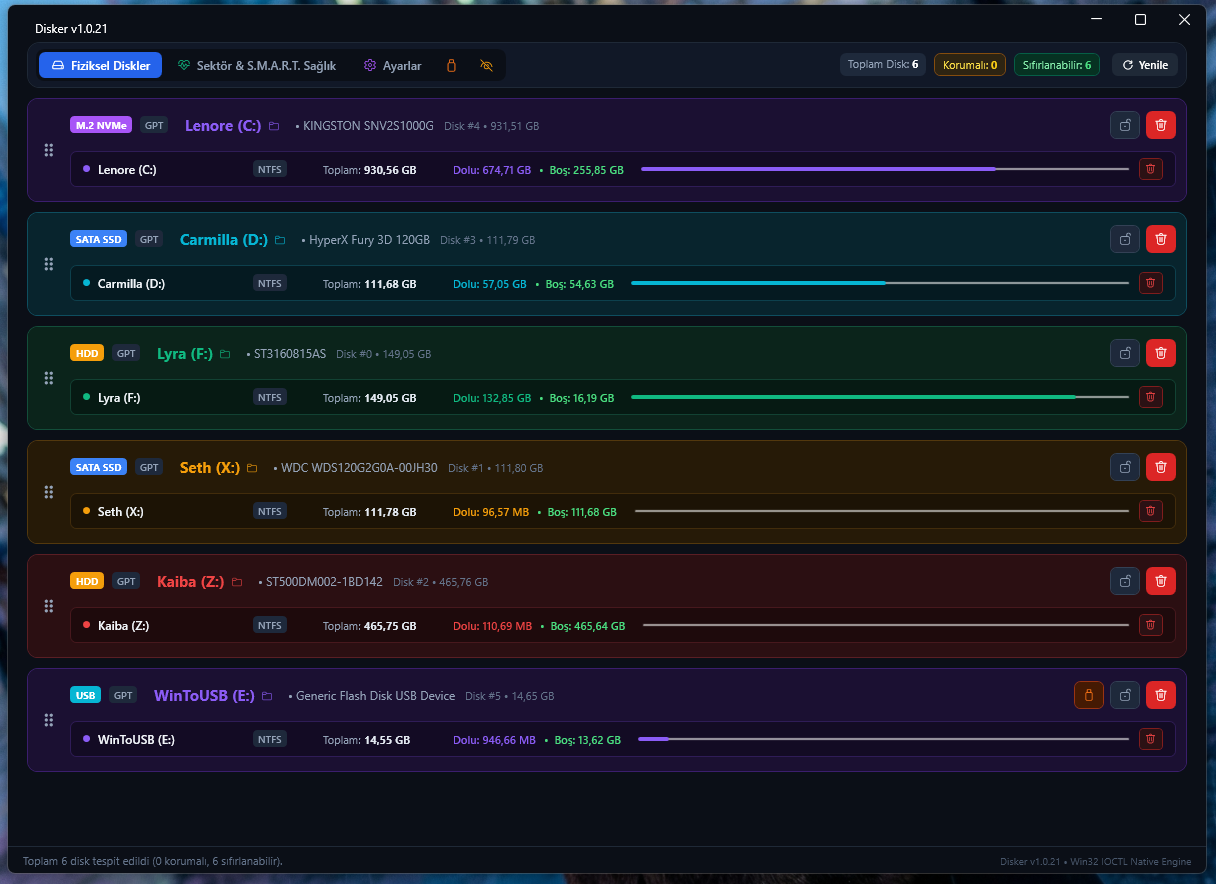
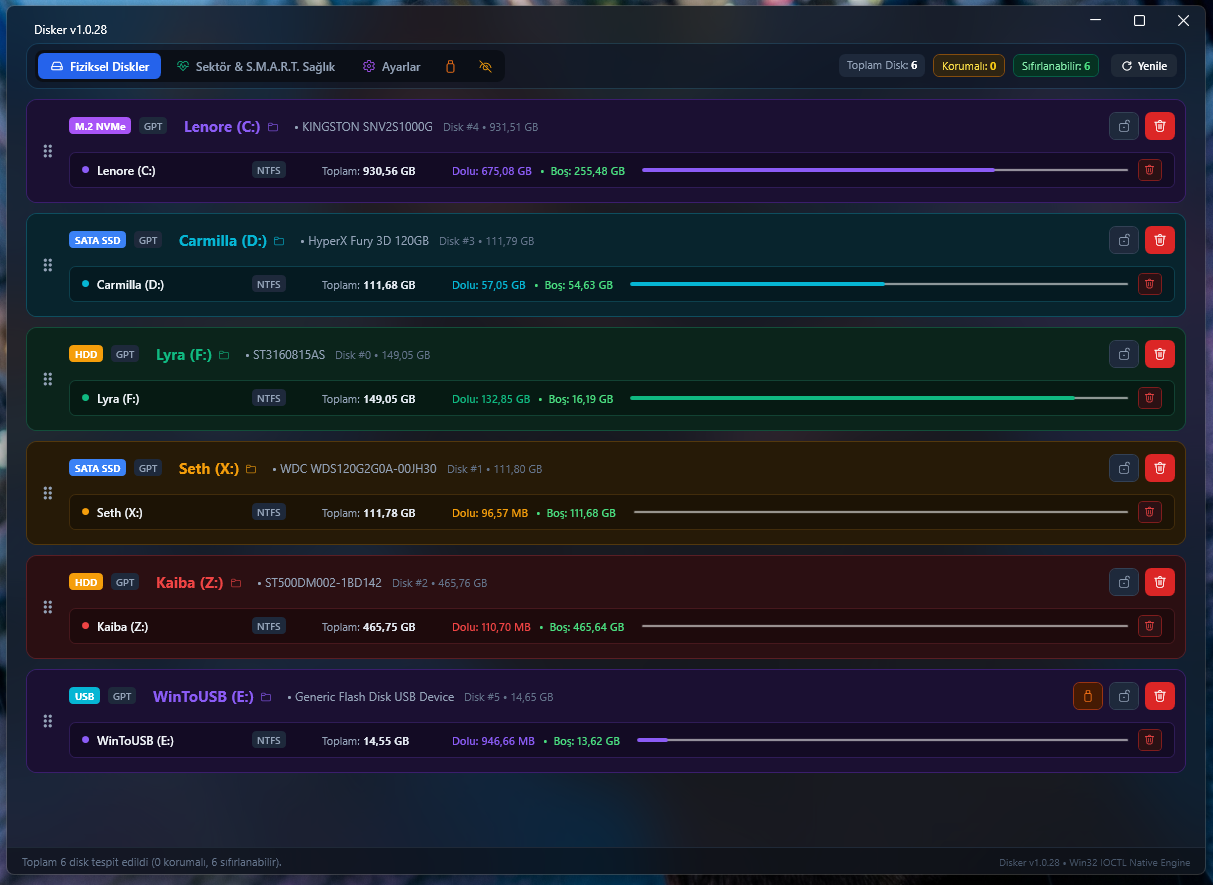
docs: update screenshots showcase in README and release v1.0.31

diff --git a/README.md b/README.md
@@ -25,11 +25,19 @@ Canlı renk kodlu disk kartları, sürükle-bırak sıralama, akıllı donanım 
 
 ### 2. ISO → Bootable USB Yazıcı (Create Bootable USB)
 Rufus Win32 DD mimarisinden esinlenen tam teşekküllü, sektör hizalamalı ham imaj yazıcı:
-![Create Bootable USB](ss/02_create_bootable_usb_popup.png)
+![Create Bootable USB](ss/01-3_create_bootable_usb_popup.png)
 
-### 3. S.M.A.R.T. Sağlık ve Sektör Teşhisi
+### 3. Modern Dahili Sıfırlama ve Biçimlendirme Modalı
+Bölümleme tablosu (GPT/MBR), dosya sistemi (NTFS/exFAT/FAT32) ve sürücü harfi yapılandırması:
+![Disk Sıfırlama Modalı](ss/01-2_disk_format.png)
+
+### 4. S.M.A.R.T. Sağlık ve Sektör Teşhisi
 Gerçek zamanlı sıcaklık, tahmini sağlık skoru, RAW S.M.A.R.T. parametreleri ve sektör geometrisi:
-![SMART Sağlık Teşhisi](ss/03_smart_health_diagnostics.png)
+![SMART Sağlık Teşhisi](ss/02_smart_health_diagnostics.png)
+
+### 5. Özelleştirilebilir Renk Temaları ve Dil Ayarları
+10 farklı canlı disk renk paleti ve anında çift dilli (TR / EN) arayüz:
+![Ayarlar ve Temalar](ss/03_settings.png)
 
 ---
 
